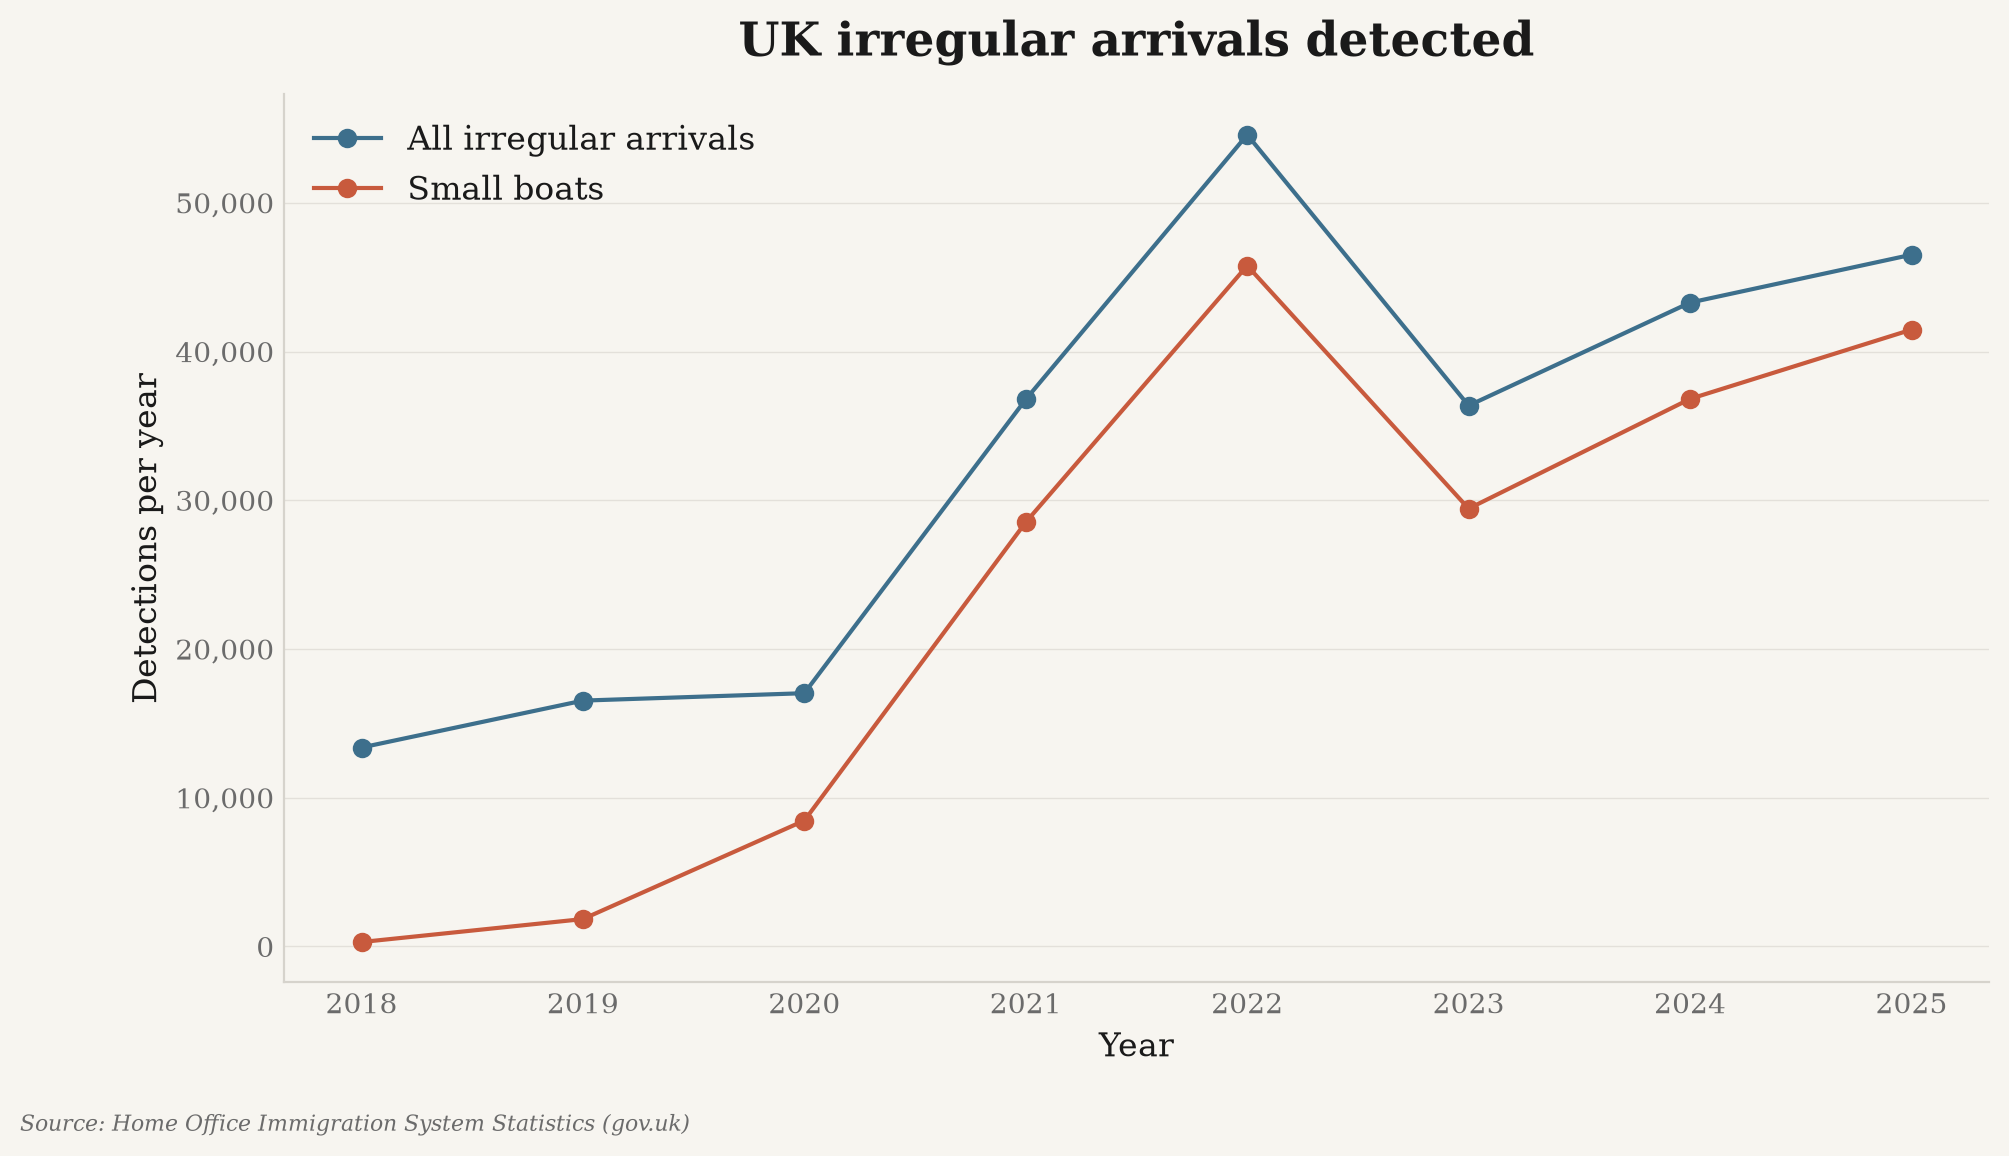
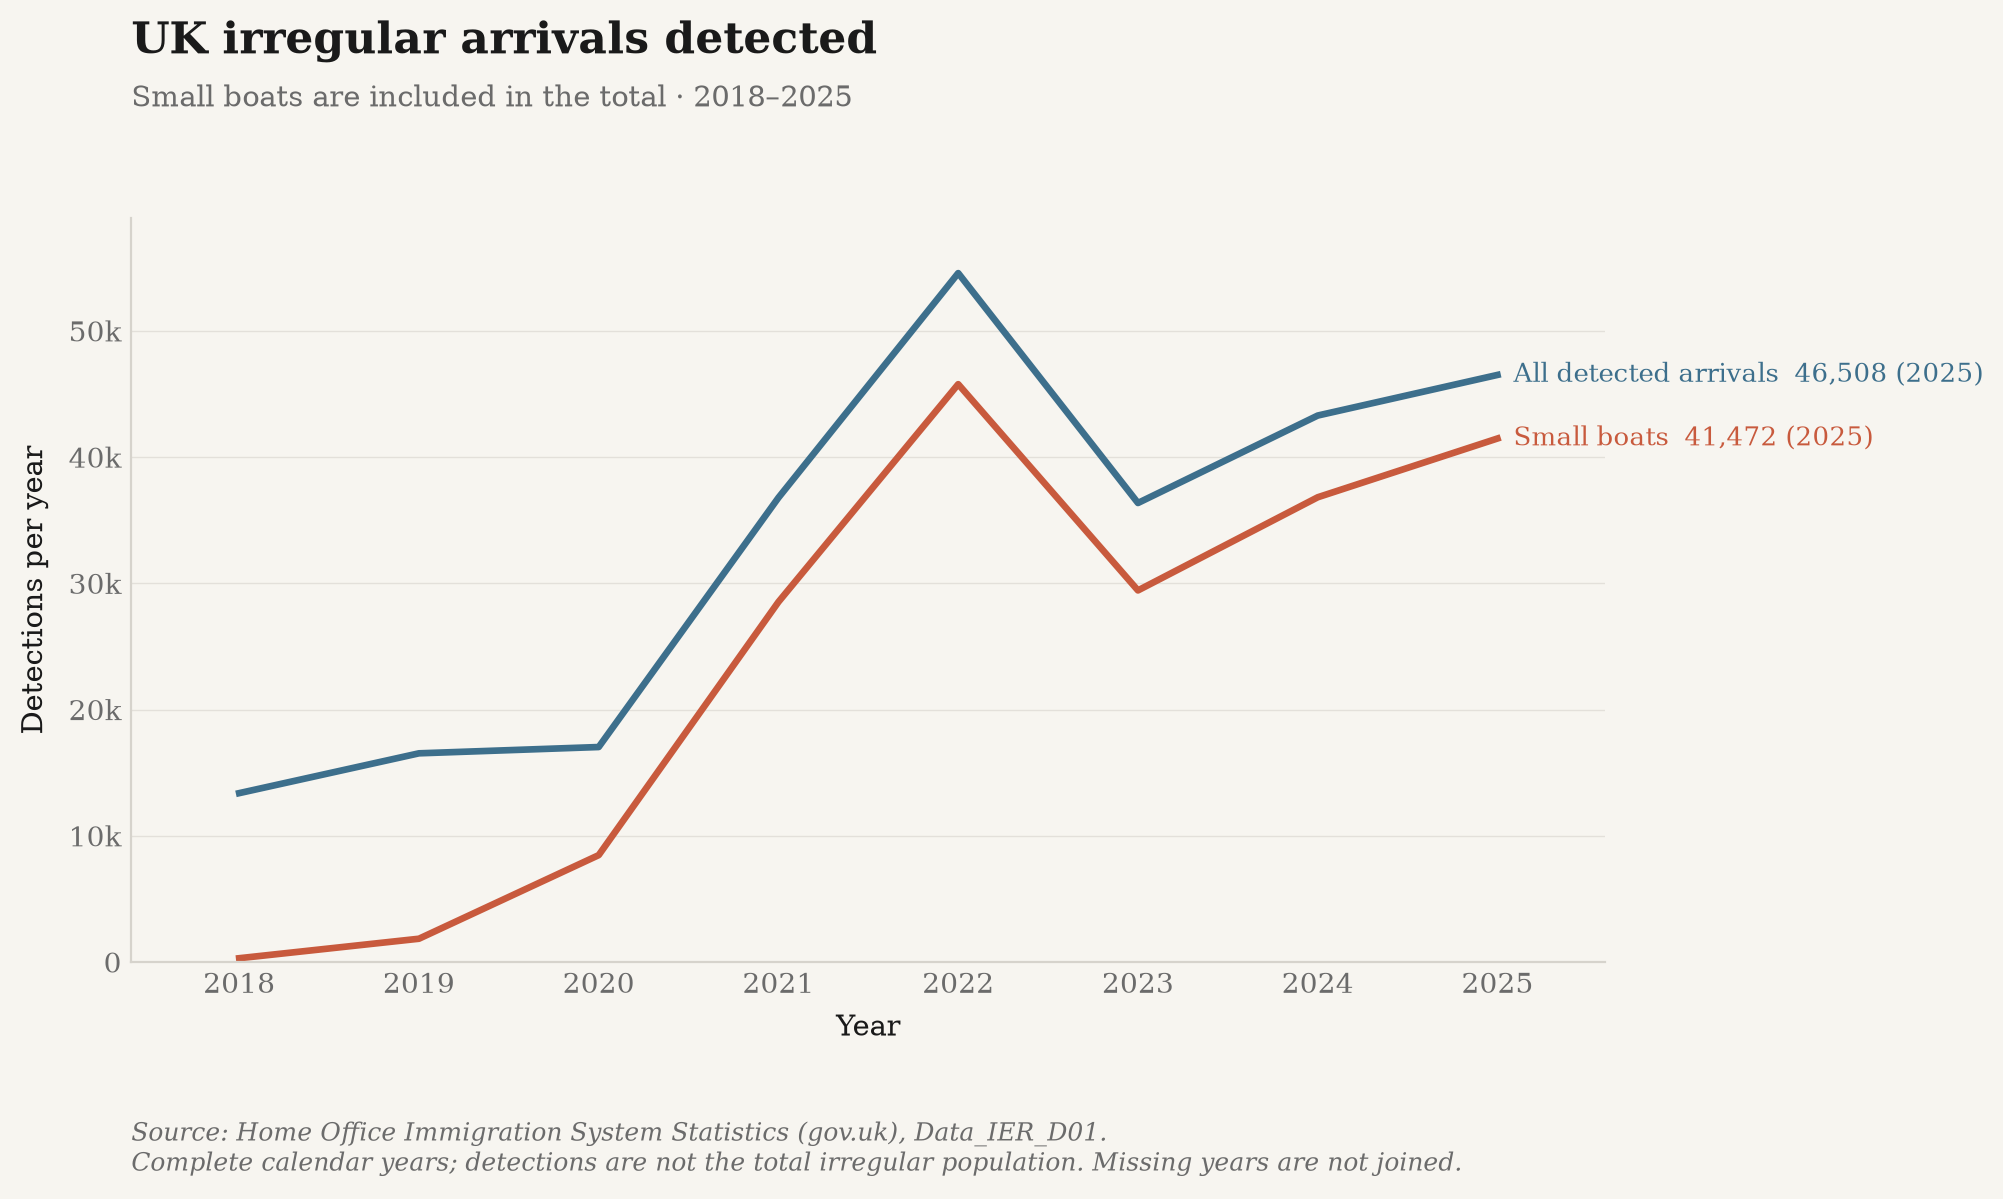
Align irregular arrivals with the shared migration chart style

diff --git a/uk_migration/charts.py b/uk_migration/charts.py
@@ -32,6 +32,11 @@ SOURCE_ONS_IPS = (
 )
 SOURCE_HO = "Home Office Immigration System Statistics (gov.uk)"
 SOURCE_WB = "World Bank, World Development Indicators (api.worldbank.org)"
+_SOURCE_IRREGULAR = (
+    f"{SOURCE_HO}, Data_IER_D01.\n"
+    "Complete calendar years; detections are not the total irregular population. "
+    "Missing years are not joined."
+)
 METHOD_BREAK_YEAR = 2012
 _METHOD_NOTE = (
     "Note: 2012 method break. Different methods are not directly comparable; "
@@ -133,11 +138,11 @@ def _compact_count(value: float, _position=None) -> str:
     return f"{value:g}"
 
 
-def _style_ons_figure(fig, ax, segments: list[pd.DataFrame], title: str,
-                      subtitle: str, ylabel: str, *, counts: bool = True) -> int:
+def _style_migration_figure(fig, ax, segments: list[pd.DataFrame], title: str,
+                            subtitle: str, ylabel: str, *, counts: bool = True) -> int:
     observed = [segment for segment in segments if not segment.empty]
     if not observed:
-        raise ValueError("No ONS migration observations to plot")
+        raise ValueError("No migration observations to plot")
     first = int(min(segment["period"].min() for segment in observed))
     latest = int(max(segment["period"].max() for segment in observed))
     low = min(float(segment["value"].min()) for segment in observed)
@@ -145,7 +150,11 @@ def _style_ons_figure(fig, ax, segments: list[pd.DataFrame], title: str,
     padding = max(high - low, abs(high), 1) * 0.08
     ax.set_xlim(first - 0.6, latest + 0.6)
     ax.set_ylim(0 if low >= 0 else low - padding, high + padding)
-    ax.set_xticks(sorted({first, *range((first // 10 + 1) * 10, latest + 1, 10), latest}))
+    ticks = (
+        list(range(first, latest + 1)) if latest - first <= 12
+        else sorted({first, *range((first // 10 + 1) * 10, latest + 1, 10), latest})
+    )
+    ax.set_xticks(ticks)
     ax.yaxis.set_major_locator(MaxNLocator(nbins=6))
     if counts:
         ax.yaxis.set_major_formatter(_compact_count)
@@ -160,7 +169,7 @@ def _style_ons_figure(fig, ax, segments: list[pd.DataFrame], title: str,
     return latest
 
 
-def _ons_end_labels(ax, ends: list[tuple[float, str, str, int]], latest: int) -> None:
+def _migration_end_labels(ax, ends: list[tuple[float, str, str, int]], latest: int) -> None:
     low, high = ax.get_ylim()
     first_label = len(ax.texts)
     labelled_ends(ax, ends, min_gap=(high - low) * 0.045, x=latest, fontsize=9.5)
@@ -175,12 +184,12 @@ def chart_immigration(df: pd.DataFrame) -> Path:
         ax, df, "immigration_by_origin", "immigration",
         label="UK long-term immigration over time",
     )
-    latest = _style_ons_figure(
+    latest = _style_migration_figure(
         fig, ax, [ips, admin], "UK long-term immigration",
         "Annual arrivals", "Immigration per year",
     )
     last = (admin if not admin.empty else ips).iloc[-1]
-    _ons_end_labels(ax, [(last["value"], f"{_compact_count(last['value'])} ({int(last['period'])})",
+    _migration_end_labels(ax, [(last["value"], f"{_compact_count(last['value'])} ({int(last['period'])})",
                          SUBSTACK_ACCENT, int(last["period"]))], latest)
     return _save(fig, "immigration_over_time.png", _SOURCE_BY_ORIGIN,
                  publication=True, right=0.83)
@@ -193,12 +202,12 @@ def chart_net_migration(df: pd.DataFrame) -> Path:
         label="UK net long-term migration over time",
     )
     ax.axhline(0, color=SUBSTACK_MUTED, linewidth=0.8)
-    latest = _style_ons_figure(
+    latest = _style_migration_figure(
         fig, ax, [ips, admin], "UK net long-term migration",
         "Immigration minus emigration", "People (net)",
     )
     last = (admin if not admin.empty else ips).iloc[-1]
-    _ons_end_labels(ax, [(last["value"], f"{_compact_count(last['value'])} ({int(last['period'])})",
+    _migration_end_labels(ax, [(last["value"], f"{_compact_count(last['value'])} ({int(last['period'])})",
                          SUBSTACK_ACCENT, int(last["period"]))], latest)
     return _save(fig, "net_migration.png", _SOURCE_BY_ORIGIN,
                  publication=True, right=0.83)
@@ -304,17 +313,32 @@ def chart_asylum(df: pd.DataFrame) -> Path:
 
 
 def chart_irregular(df: pd.DataFrame) -> Path:
-    total = _series(df, "irregular_arrivals", "all")
-    boats = _series(df, "irregular_arrivals", "small_boat")
-    fig, ax = plt.subplots(figsize=(11, 6))
-    ax.plot(total["period"], total["value"], marker="o", color=SUBSTACK_BLUE, label="All irregular arrivals")
-    ax.plot(boats["period"], boats["value"], marker="o", color=SUBSTACK_ACCENT, label="Small boats")
-    _style_title(ax, "UK irregular arrivals detected")
-    ax.set_xlabel("Year")
-    ax.set_ylabel("Detections per year")
-    ax.legend(loc="upper left", frameon=False)
-    _style_axes(ax)
-    return _save(fig, "irregular_arrivals.png", SOURCE_HO)
+    data = []
+    for category, label, color in (
+        ("all", "All detected arrivals", SUBSTACK_BLUE),
+        ("small_boat", "Small boats", SUBSTACK_ACCENT),
+    ):
+        series = _series(df, "irregular_arrivals", category)
+        if series.empty:
+            raise ValueError(f"Missing published irregular-arrival category: {category}")
+        data.append((series, label, color))
+    fig, ax = plt.subplots(figsize=(11, 6.2))
+    ends = []
+    for series, label, color in data:
+        annual = with_year_gaps(series.set_index("period")["value"])
+        ax.plot(annual.index, annual.values, linewidth=2.4, color=color, label=label)
+        last = series.iloc[-1]
+        ends.append((
+            last["value"], f"{label}  {last['value']:,.0f} ({int(last['period'])})",
+            color, int(last["period"]),
+        ))
+    latest = _style_migration_figure(
+        fig, ax, [series for series, _, _ in data], "UK irregular arrivals detected",
+        "Small boats are included in the total", "Detections per year",
+    )
+    _migration_end_labels(ax, ends, latest)
+    return _save(fig, "irregular_arrivals.png", _SOURCE_IRREGULAR,
+                 publication=True, right=0.76)
 
 
 def chart_legal_vs_irregular(df: pd.DataFrame) -> Path:
@@ -344,12 +368,12 @@ def chart_net_migration_per_capita(df: pd.DataFrame) -> Path:
         label="UK net migration per 1,000 population",
     )
     ax.axhline(0, color=SUBSTACK_MUTED, linewidth=0.8)
-    latest = _style_ons_figure(
+    latest = _style_migration_figure(
         fig, ax, [ips, admin], "UK net migration per 1,000 population",
         "Annual net flows, population-adjusted", "Per 1,000 population", counts=False,
     )
     last = (admin if not admin.empty else ips).iloc[-1]
-    _ons_end_labels(ax, [(last["value"], f"{last['value']:.1f} ({int(last['period'])})",
+    _migration_end_labels(ax, [(last["value"], f"{last['value']:.1f} ({int(last['period'])})",
                          SUBSTACK_ACCENT, int(last["period"]))], latest)
     return _save(
         fig, "net_migration_per_capita.png",
@@ -388,10 +412,10 @@ def _chart_by_origin(df: pd.DataFrame, ips_metric: str, admin_metric: str,
             ))
     if zero_line:
         ax.axhline(0, color=SUBSTACK_MUTED, linewidth=0.8)
-    latest = _style_ons_figure(
+    latest = _style_migration_figure(
         fig, ax, segments, title, "Long-term flows by citizenship group", ylabel,
     )
-    _ons_end_labels(ax, ends, latest)
+    _migration_end_labels(ax, ends, latest)
     return _save(fig, name, _SOURCE_BY_ORIGIN, publication=True, right=0.76)
 
 
@@ -438,7 +462,7 @@ _CHART_DOCS: list[tuple[str, str, str]] = [
     ("asylum_applications.png", "Asylum applications, main applicants (2001+)",
      f"{SOURCE_HO}, asylum-claims dataset"),
     ("irregular_arrivals.png", "Detected irregular arrivals incl. small boats (2018+)",
-     f"{SOURCE_HO}, illegal-entry-routes dataset"),
+     f"{SOURCE_HO}, Data_IER_D01"),
     ("legal_vs_irregular.png", "Total immigration vs detected irregular arrivals, log scale",
      f"{SOURCE_ONS}; {SOURCE_HO}"),
     ("net_migration_per_capita.png", "ONS net migration per 1,000 population, 1964–2025",

diff --git a/tests/test_uk_migration.py b/tests/test_uk_migration.py
@@ -136,6 +136,68 @@ def test_public_migration_charts_use_readable_labels_and_preserve_missing_years(
     assert fig.texts[-1].get_window_extent(renderer).y1 + 5 < ax.xaxis.label.get_window_extent(renderer).y0
 
 
+def test_irregular_chart_uses_dated_labels_and_preserves_missing_years(monkeypatch, tmp_path):
+    import json
+    from matplotlib.backends.backend_agg import FigureCanvasAgg
+
+    rows = [
+        dict(metric="irregular_arrivals", category=category, period=year, value=value)
+        for category, values in (
+            ("all", (13000, 17000, 22000, 30000)),
+            ("small_boat", (300, 1800, 15000, 29999)),
+        )
+        for year, value in zip((2018, 2019, 2021, 2025), values)
+    ]
+    figures = []
+    original = charts.save_chart
+
+    def save(fig, *args, **kwargs):
+        figures.append(fig)
+        return original(fig, *args, **kwargs)
+
+    monkeypatch.setattr(charts, "save_chart", save)
+    monkeypatch.setattr(charts, "FIGURES_DIR", tmp_path)
+    path = charts.chart_irregular(pd.DataFrame(rows))
+    fig, ax = figures[0], figures[0].axes[0]
+    assert ax.get_legend() is None
+    assert list(ax.get_xticks()) == list(range(2018, 2026))
+    for line in ax.lines:
+        assert pd.isna(line.get_ydata()).sum() == 4
+    data = json.loads(path.with_suffix(".json").read_text())
+    labels = {"all": "All detected arrivals", "small_boat": "Small boats"}
+    actual = {
+        (series["label"], point[2]): float(point[3].replace(",", ""))
+        for series in data["series"] for point in series["points"]
+    }
+    assert actual == {
+        (labels[row["category"]], str(row["period"])): row["value"] for row in rows
+    }
+    assert "Small boats are included in the total" in fig.texts[1].get_text()
+    assert "not the total irregular population" in fig.texts[-1].get_text()
+    assert "Data_IER_D01" in fig.texts[-1].get_text()
+    ends = [text for text in ax.texts if text.get_text()]
+    assert {text.get_text().strip() for text in ends} == {
+        "All detected arrivals  30,000 (2025)", "Small boats  29,999 (2025)",
+    }
+    canvas = FigureCanvasAgg(fig)
+    canvas.draw()
+    renderer = canvas.get_renderer()
+    boxes = sorted((text.get_window_extent(renderer) for text in ends), key=lambda box: box.y0)
+    assert boxes[0].y1 + 1 < boxes[1].y0
+    assert all(box.x1 < fig.bbox.x1 for box in boxes)
+    assert fig.texts[-1].get_window_extent(renderer).y1 + 5 < ax.xaxis.label.get_window_extent(renderer).y0
+
+
+@pytest.mark.parametrize("missing", ["all", "small_boat"])
+def test_irregular_chart_rejects_a_missing_series(missing):
+    rows = [
+        dict(metric="irregular_arrivals", category=category, period=2025, value=1000)
+        for category in ("all", "small_boat") if category != missing
+    ]
+    with pytest.raises(ValueError, match=f"Missing published irregular-arrival category: {missing}"):
+        charts.chart_irregular(pd.DataFrame(rows))
+
+
 def test_log_chart_labels_survive_shared_style_reset(monkeypatch, tmp_path):
     from vizstyle import house_style
     from matplotlib.backends.backend_agg import FigureCanvasAgg

diff --git a/outputs/migration/SOURCES.md b/outputs/migration/SOURCES.md
@@ -35,6 +35,6 @@ Note: 2012 method break. Different methods are not directly comparable; lines ar
 Note: 2012 method break. Different methods are not directly comparable; lines are not joined across the break. |
 | `visas_by_category.png` | Entry-clearance visas granted by category (2005+) | Home Office Immigration System Statistics (gov.uk), entry-clearance-visa-outcomes dataset |
 | `asylum_applications.png` | Asylum applications, main applicants (2001+) | Home Office Immigration System Statistics (gov.uk), asylum-claims dataset |
-| `irregular_arrivals.png` | Detected irregular arrivals incl. small boats (2018+) | Home Office Immigration System Statistics (gov.uk), illegal-entry-routes dataset |
+| `irregular_arrivals.png` | Detected irregular arrivals incl. small boats (2018+) | Home Office Immigration System Statistics (gov.uk), Data_IER_D01 |
 | `legal_vs_irregular.png` | Total immigration vs detected irregular arrivals, log scale | Office for National Statistics, Long-Term International Migration (ons.gov.uk); Home Office Immigration System Statistics (gov.uk) |
 | `net_migration_per_capita.png` | ONS net migration per 1,000 population, 1964–2025 | Office for National Statistics, International Passenger Survey, long-term migration 1964–2015, ad hoc 006408 (ons.gov.uk); Office for National Statistics, Long-Term International Migration (ons.gov.uk); World Bank, World Development Indicators (api.worldbank.org) (SP.POP.TOTL denominator only) |

diff --git a/uk_migration/README.md b/uk_migration/README.md
@@ -46,6 +46,8 @@ total charts remain available; the underlying source table is unchanged.
 Home Office annual series omit categories with incomplete quarterly coverage. An
 all-method irregular total is published only if every method observed that year has
 four quarters; complete small-boat figures cannot disguise partial air-arrival data.
+The irregular-arrivals chart shows total detections and small-boat detections:
+small boats are **included in the total**, so the two lines must not be added.
 Detected arrivals are not the entire irregular population. Total ONS immigration has
 a different long-term residence definition and is not a legal-only count: these
 measures are not a mutually exclusive legal/illegal partition.
